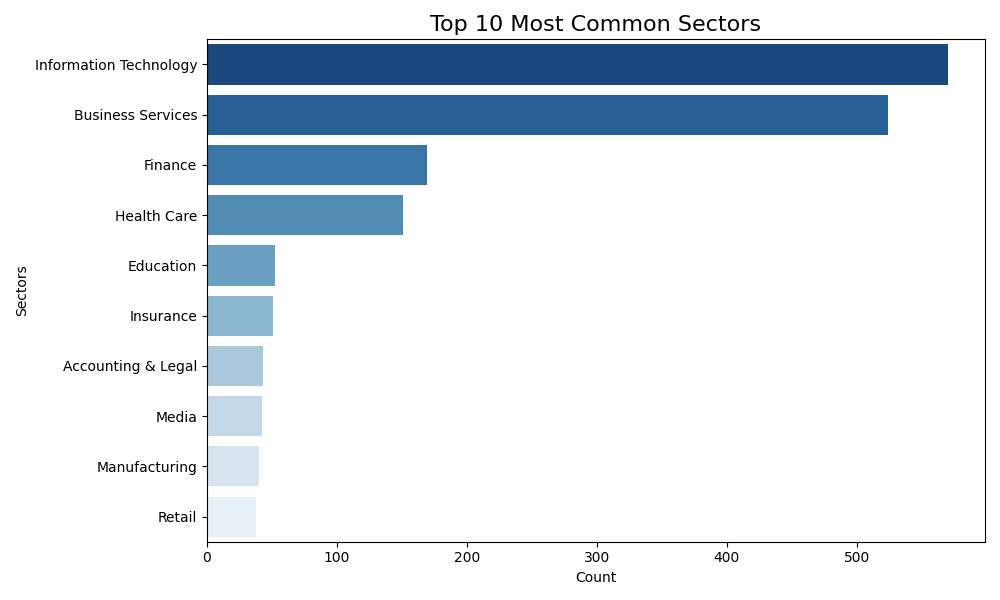
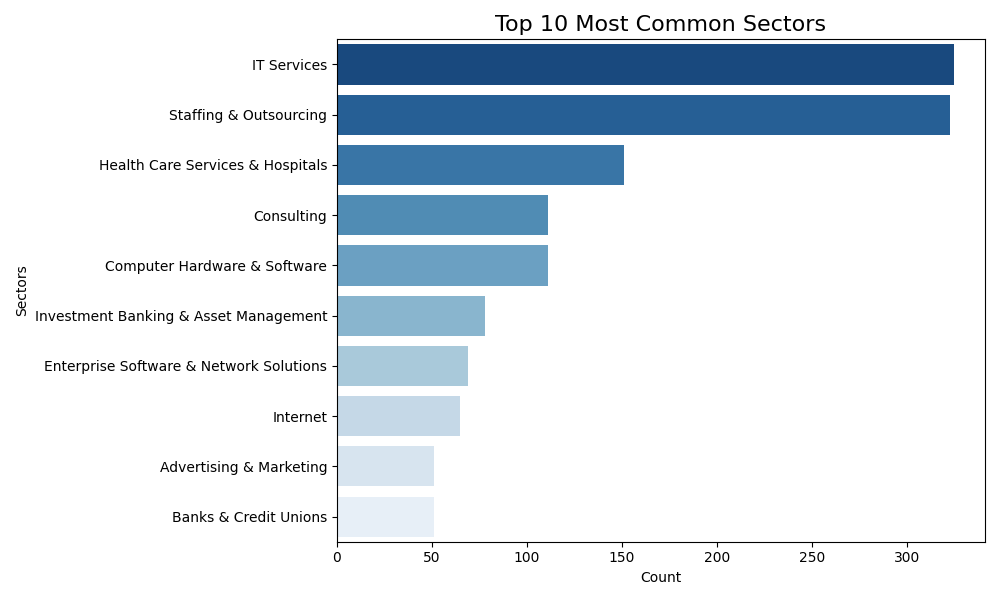
added pivot tables

diff --git a/Pages/categorical_analysis.py b/Pages/categorical_analysis.py
@@ -6,94 +6,98 @@ import time
 
 
 data = pd.read_csv("../Data/cleaned_data.csv", index_col=0)
-# print(data)
-
-# sector_avg_rating = data.groupby('Sector')['Rating'].mean().sort_values(ascending=False)
+# # print(data)
+#
+# sector_avg_rating = data.groupby('Founded')['Rating'].mean().sort_values(ascending=False)
 # print(type(sector_avg_rating))
+# cleaned_df = sector_avg_rating.reset_index()
+# print(cleaned_df)
+
 # bottom_10_sectors = pd.DataFrame(sector_avg_rating).tail(10)
 # print(type(bottom_10_sectors))
 # print(bottom_10_sectors)
 # cleaned_df = bottom_10_sectors.reset_index()
 # print(cleaned_df)
-
+#
+# # # Get the top 10 sectors based on ratings
+# # sector_avg_rating = cleaned_df.groupby('Sector')['Rating'].mean().sort_values(ascending=True)
+# #
+# # top_10_sectors = pd.DataFrame(sector_avg_rating).tail(10)
+# # bottom_10_sectors = pd.DataFrame(sector_avg_rating).head(10)
+#
+# # # rating_df = top_10_sectors.reset_index()
+# # rating_df = bottom_10_sectors.reset_index()
+#
+# def top_bottom_10(df, groupby_var, measurement_var, top_bottom=10, order="top"):
+#     # Group by the specified variable and calculate the average of the measurement variable
+#     grouped_avg = df.groupby(groupby_var)[measurement_var].mean().sort_values(ascending=True)
+#     # Select top or bottom N groups
+#     if order == "top":
+#         result = grouped_avg.head(top_bottom)
+#     elif order == "bottom":
+#         result = grouped_avg.tail(top_bottom)
+#     else:
+#         raise ValueError("The 'order' parameter must be 'top' or 'bottom'.")
+#
+#     # Convert the result into a DataFrame and reset the index
+#     result_df = result.reset_index()
+#
+#     return result_df
+#
+# # Sample DataFrame
+# # data = pd.DataFrame({
+# #     'Sector': ['IT', 'Finance', 'Healthcare', 'Retail', 'IT', 'Finance', 'Healthcare', 'Retail'],
+# #     'Rating': [4.5, 4.2, 3.9, 3.7, 4.8, 4.1, 4.0, 3.5]
+# # })
+#
+# # Get top 10 sectors by average rating
+# top_10_sectors = top_bottom_10(data, 'Sector', 'Rating', 10, "top")
+# print("Top 10 Sectors:")
+# print(top_10_sectors)
+# bottom_10_sectors = top_bottom_10(data, 'Sector', 'Rating', 10, "bottom")
+# print("Bottom 10 Sectors:")
+# print(bottom_10_sectors)
+#
+#
+# # Find the most common categories
+#
+# Filter out the rows where 'Industry' is 'unknown'
+filtered_data = data[data['Industry'] != 'Unknown']
+# Calculate the value counts for the filtered dataset
+industry_counts = filtered_data['Industry'].value_counts()
+# #
+# #
+# # company_name_counts = data['Company Name'].value_counts()
+# #
+# # # Filter out the rows where 'Industry' is 'unknown'
+# # filtered_data = data[data['Headquarters'] != 'Unknown']
+# # headquarters_counts = filtered_data['Headquarters'].value_counts()
+# #
+# #
+# # location_counts = data['Location'].value_counts()
+# #
+# # # Filter out the rows where 'Industry' is 'unknown'
+# # filtered_data = data[data['Sector'] != 'Unknown']
+# # sector_counts = filtered_data['Sector'].value_counts()
+#
 # # Get the top 10 sectors based on ratings
-# sector_avg_rating = cleaned_df.groupby('Sector')['Rating'].mean().sort_values(ascending=True)
 #
-# top_10_sectors = pd.DataFrame(sector_avg_rating).tail(10)
-# bottom_10_sectors = pd.DataFrame(sector_avg_rating).head(10)
-
-# # rating_df = top_10_sectors.reset_index()
-# rating_df = bottom_10_sectors.reset_index()
-
-def top_bottom_10(df, groupby_var, measurement_var, top_bottom=10, order="top"):
-    # Group by the specified variable and calculate the average of the measurement variable
-    grouped_avg = df.groupby(groupby_var)[measurement_var].mean().sort_values(ascending=True)
-    # Select top or bottom N groups
-    if order == "top":
-        result = grouped_avg.head(top_bottom)
-    elif order == "bottom":
-        result = grouped_avg.tail(top_bottom)
-    else:
-        raise ValueError("The 'order' parameter must be 'top' or 'bottom'.")
-
-    # Convert the result into a DataFrame and reset the index
-    result_df = result.reset_index()
-
-    return result_df
-
-# Sample DataFrame
-# data = pd.DataFrame({
-#     'Sector': ['IT', 'Finance', 'Healthcare', 'Retail', 'IT', 'Finance', 'Healthcare', 'Retail'],
-#     'Rating': [4.5, 4.2, 3.9, 3.7, 4.8, 4.1, 4.0, 3.5]
-# })
-
-# Get top 10 sectors by average rating
-top_10_sectors = top_bottom_10(data, 'Sector', 'Rating', 10, "top")
-print("Top 10 Sectors:")
-print(top_10_sectors)
-bottom_10_sectors = top_bottom_10(data, 'Sector', 'Rating', 10, "bottom")
-print("Bottom 10 Sectors:")
-print(bottom_10_sectors)
-
-
-# Find the most common categories
-
-# # Filter out the rows where 'Industry' is 'unknown'
-# filtered_data = data[data['Industry'] != 'Unknown']
-# # Calculate the value counts for the filtered dataset
-# industry_counts = filtered_data['Industry'].value_counts()
+# # Display the top 10 most common
+#
+# # print(industry_counts.head(10))
+# # print(company_name_counts.head(10))
+# # print(headquarters_counts.head(10))
+# # print(location_counts.head(10))
+# # print(sector_counts.head(10))
 #
 #
-# company_name_counts = data['Company Name'].value_counts()
-#
-# # Filter out the rows where 'Industry' is 'unknown'
-# filtered_data = data[data['Headquarters'] != 'Unknown']
-# headquarters_counts = filtered_data['Headquarters'].value_counts()
-#
-#
-# location_counts = data['Location'].value_counts()
-#
-# # Filter out the rows where 'Industry' is 'unknown'
-# filtered_data = data[data['Sector'] != 'Unknown']
-# sector_counts = filtered_data['Sector'].value_counts()
-
-# Get the top 10 sectors based on ratings
-
-# Display the top 10 most common
-
-# print(industry_counts.head(10))
-# print(company_name_counts.head(10))
-# print(headquarters_counts.head(10))
-# print(location_counts.head(10))
-# print(sector_counts.head(10))
-
-
 # Plot the top 10 industries
-# plt.figure(figsize=(10, 6))
-# sns.barplot(x=sector_counts.head(10).values, y=sector_counts.head(10).index, palette="Blues_r")
-# plt.title("Top 10 Most Common Sectors", fontsize=16)
-# plt.xlabel("Count")
-# plt.ylabel("Sectors")
-# plt.tight_layout()
+plt.figure(figsize=(10, 6))
+sns.barplot(x=industry_counts.tail(10).values, y=industry_counts.tail(10).index, palette="Blues_r")
+plt.title("Top 10 Most Common Sectors", fontsize=16)
+plt.xlabel("Count")
+plt.ylabel("Sectors")
+plt.tight_layout()
 # plt.savefig("../assets/Top_10_Most_Common_Sectors.png")  # Save the figure as an image
-# plt.close()
+plt.show()
+plt.close()

diff --git a/Pages/insights.py b/Pages/insights.py
@@ -12,24 +12,60 @@ dash.register_page(__name__, "/")
 
 
 layout = dbc.Container([
+
     dbc.Row([
-    html.H1("Insights"),
+    dbc.Col([
+        html.H2("Rating Analysis"),
+        html.H4("Which industries have the highest and lowest average ratings?"),
+        html.Img(src=dash.get_asset_url('top 10 industry by rating.png'),
+                 style={"width": "100%", "height": "auto"}),
+        html.Img(src=dash.get_asset_url('bottom 10 industry by rating.png'),
+                 style={"width": "100%", "height": "auto"}),
+        html.Img(src=dash.get_asset_url('Top 10_Most_Common_Industries.png'),
+                 style={"width": "100%", "height": "auto"}),
+    ], width=6),
+    dbc.Col([dcc.Markdown('''
+                     ## Insights
+                     * Top rated industry is Audiovisual 
+                        * the reason for this industry being the most highly rated is because there 
+                          is only one observation the whole dataset with rating score of 5
+                     * The second highly rated industry is Architectural & Engineering Services, 
+                        with 8 observations, and average rating of 4.26
+                     * The third top rated industry is Colleges & Universities,with only have 39 
+                        observations and average rating of 4.16
+                     * Since, the top 3 rated industries have low observations and not part of 
+                        the top 10 most common industries in teh dataset. There should be ignored
+                        since provide false information that new data analyst will seek in applying
+                        for jobs since their look highly rated but not enough information from users
+                        suggest their are popular industries       
+                     * Bottom rated industries is only have one observation therefore not meaningful
+    
+    ''')], width=6),
     ],className='mb-3'),
+
+
 
     dbc.Row([
         dbc.Col([
             html.H2("Rating Analysis"),
             html.H4("Which industries have the highest and lowest average ratings?"),
-            html.Img(src=dash.get_asset_url('top_10_sectors_by_rating.png'),
+            html.Img(src=dash.get_asset_url('top 10 industry by rating.png'),
                                  style={"width": "100%", "height": "auto"}),
-            html.Img(src=dash.get_asset_url('bottom_10_sectors_by_rating.png'),
+            html.Img(src=dash.get_asset_url('bottom 10 industry by rating.png'),
                                  style={"width": "100%", "height": "auto"}),
             html.H4("Do smaller companies (in size or revenue) tend to have lower ratings?"),
+            html.Img(src=dash.get_asset_url('company size by rating.png'),
+                                 style={"width": "100%", "height": "auto"}),
             html.H4("Are low-rated companies offering lower salaries than high-rated ones?"),
+            html.Img(src=dash.get_asset_url('company size by salary range.png'),
+                                 style={"width": "100%", "height": "auto"}),
             html.H4("Analyze trends in ratings over time"),
+            html.Img(src=dash.get_asset_url('rating over time.png'),
+                                 style={"width": "100%", "height": "auto"}),
             html.H4("Analyze correlations between Rating and numeric variables like Min Salary or Max Salary"),
-            html.H4("Are low-rated companies offering lower salaries than high-rated ones?"),
-            html.H4("Are low-rated companies offering lower salaries than high-rated ones?")
+            html.Img(src=dash.get_asset_url('scatter_matrix_heatmap_adjusted.png'),
+                                 style={"width": "100%", "height": "auto"})
+
 
         ], width=6),
         dbc.Col([dcc.Markdown('''

diff --git a/Pages/top_bottom_10.py b/Pages/top_bottom_10.py
@@ -120,17 +120,22 @@ layout =dbc.Container([
 
 def update_bar_chart(clicks,x_axis,y_axis,top_bottom):
 
+    # Filter out the rows where is 'unknown'
+    filtered_data = data[data[y_axis] != 'Unknown']
+    # Calculate the value counts for the filtered dataset
+    # industry_counts = filtered_data['Industry'].value_counts()
+
     # Create bar chart with Plotly Express
-    bottom_10_sectors = top_bottom_10(data, y_axis, x_axis, 10, top_bottom)
+    bottom_top = top_bottom_10(filtered_data, y_axis, x_axis, 10, top_bottom)
     fig = px.bar(
-        bottom_10_sectors,
+        bottom_top,
         x=x_axis,
         y=y_axis,
         color=x_axis,
         orientation='h',  # Horizontal bars
         color_continuous_scale='Viridis_r', #Blues_r
-        range_color=(bottom_10_sectors[x_axis].min(), bottom_10_sectors[x_axis].max()),  # scale
-        title= f"{top_bottom} 10 {y_axis} by {x_axis}"
+        range_color=(bottom_top[x_axis].min(), bottom_top[x_axis].max()),  # scale
+        title= f"{top_bottom} 10 Company {y_axis} by {x_axis}"
     )
 
     # Customize layout
@@ -141,7 +146,7 @@ def update_bar_chart(clicks,x_axis,y_axis,top_bottom):
         yaxis_title= f"{y_axis}",
         coloraxis_colorbar=dict(
             title= f"{x_axis}",
-            tickvals=[bottom_10_sectors[x_axis].min(), bottom_10_sectors[x_axis].max()],
+            tickvals=[bottom_top[x_axis].min(), bottom_top[x_axis].max()],
             ticktext=['Low', 'High']
         ),
         template="plotly_dark"  # Dark theme
